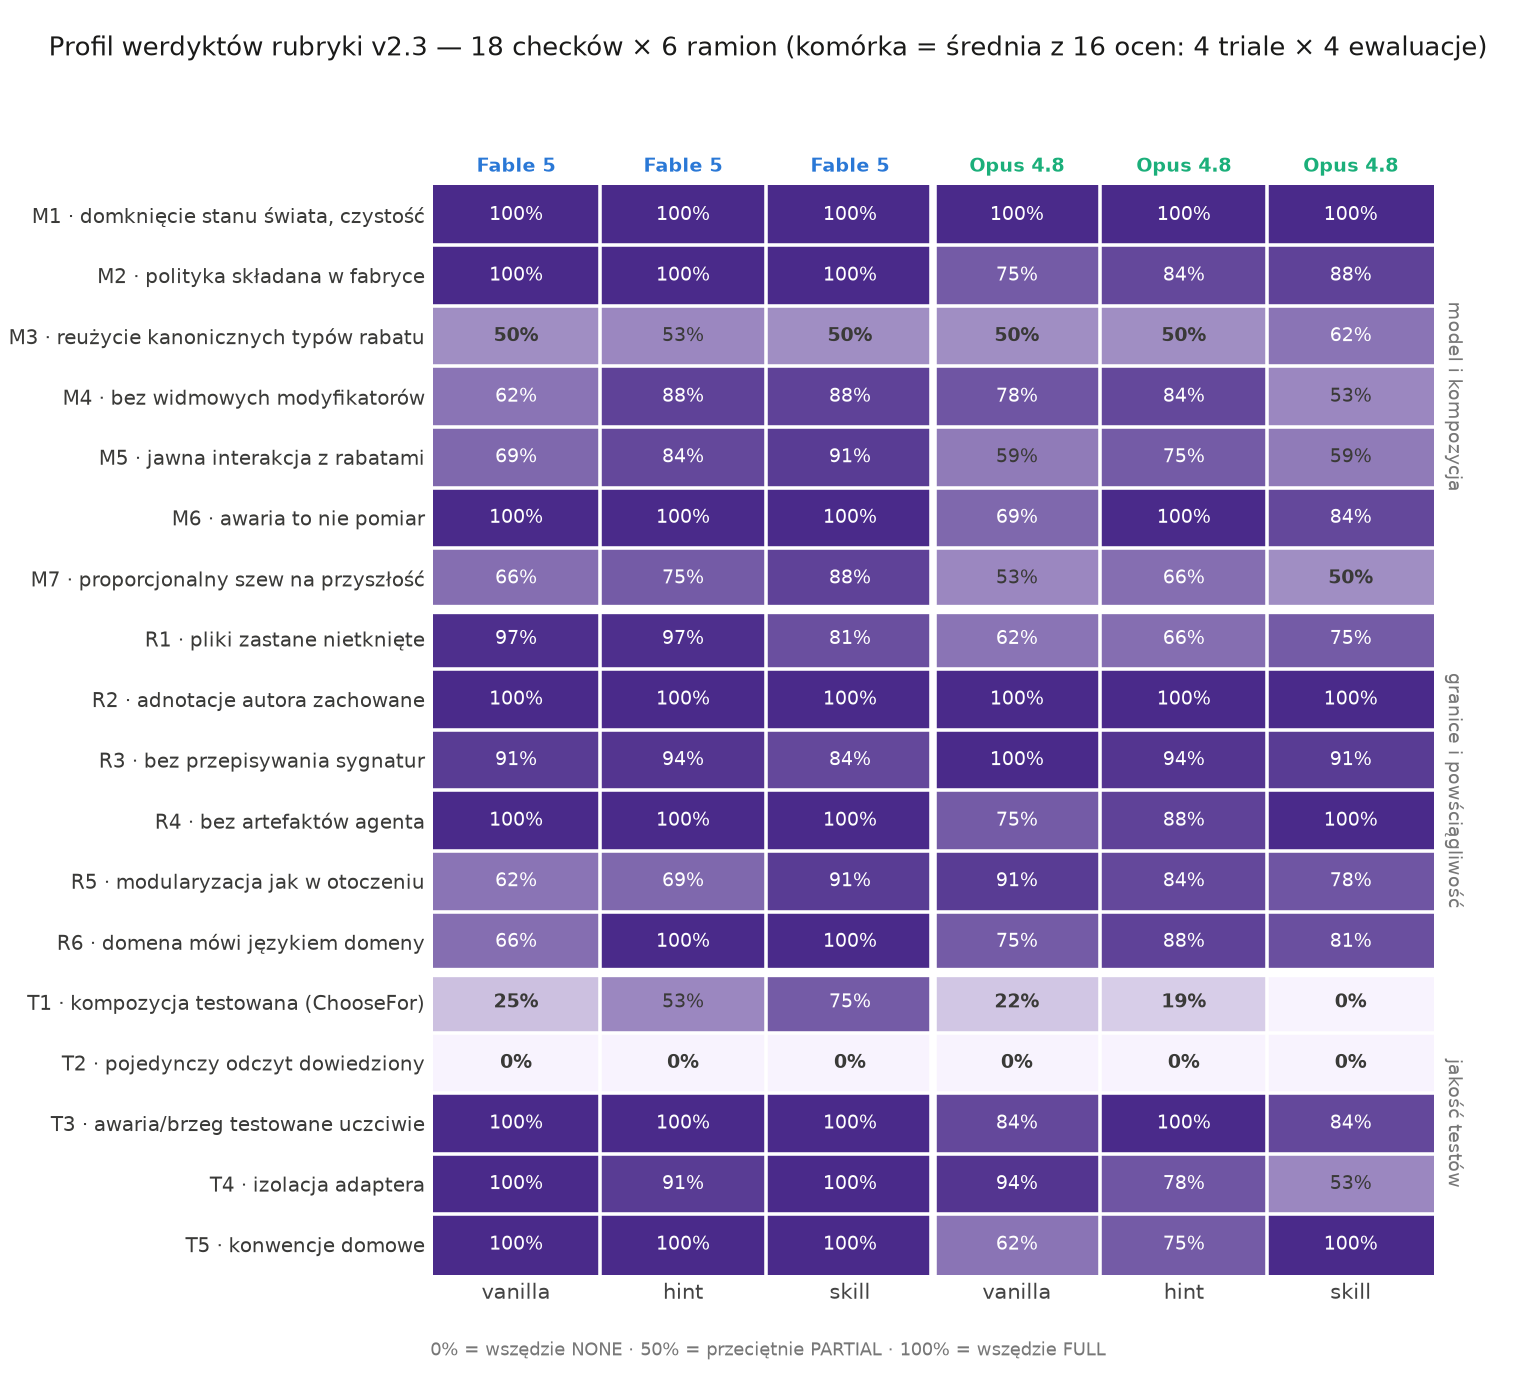
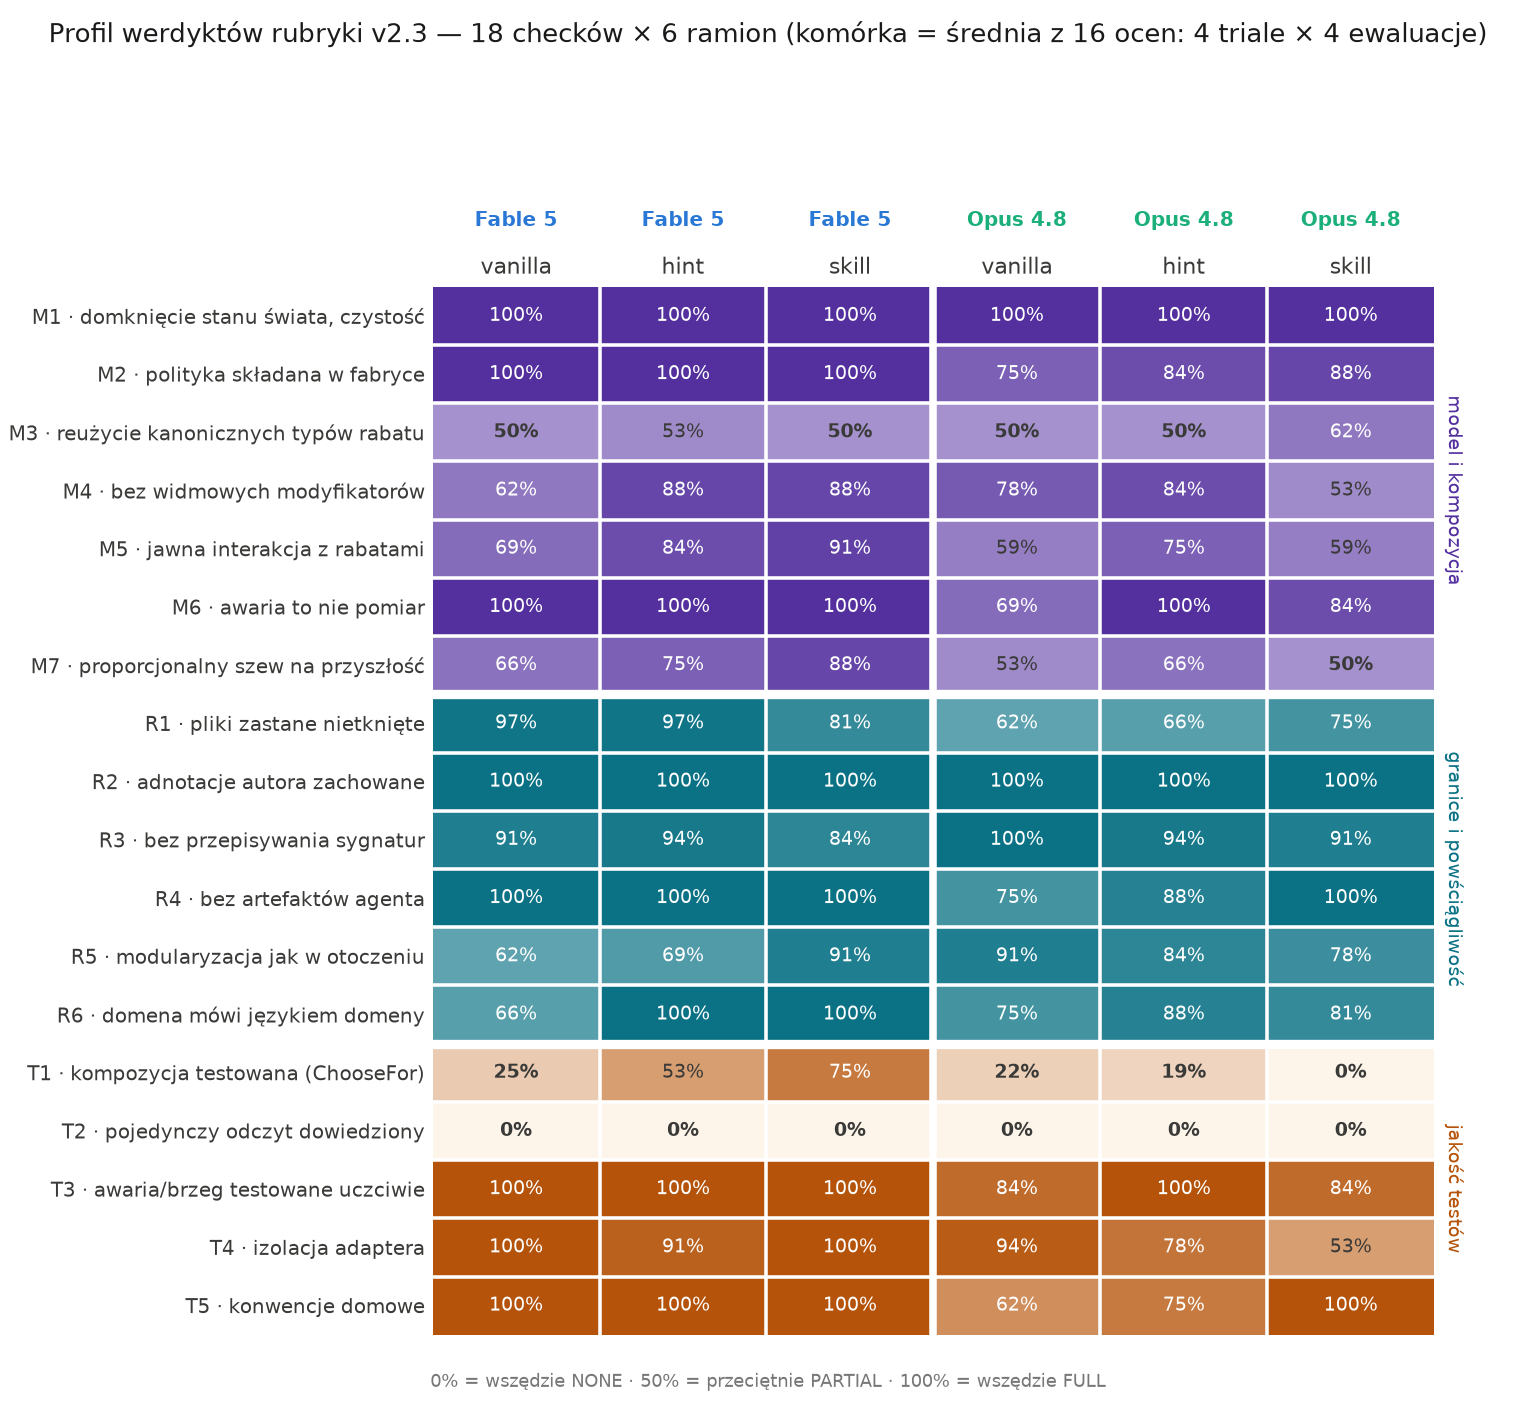
viz: heatmap polish — config labels on top, per-group hues (M violet / R teal / T amber)
Claude-Session: https://claude.ai/code/session_0112rjaT9dWVPXhqm2FCQQPh

diff --git a/examples/ddd-architectural-challenges/verdict_heatmap.py b/examples/ddd-architectural-challenges/verdict_heatmap.py
@@ -182,17 +182,25 @@ def collect() -> tuple[dict[tuple[str, str], list[dict]], list[str]]:
 
 
 VAL = {"FULL": 1.0, "PARTIAL": 0.5, "NONE": 0.0}
-CMAP = LinearSegmentedColormap.from_list("verdict", ["#f8f3fe", "#4a2a8a"])
+# one sequential ramp per check group; anchors CVD-checked as a set (worst dE 36)
+GROUP_RAMP = {
+    "M": ("#f7f3fd", "#53309e"),
+    "R": ("#eff8fa", "#0b7285"),
+    "T": ("#fdf4ea", "#b45309"),
+}
+CMAPS = {g: LinearSegmentedColormap.from_list(f"verdict_{g}", ramp)
+         for g, ramp in GROUP_RAMP.items()}
 
 
 def heatmap(per_arm: dict, lang: str) -> None:
     t = TEXT[lang]
     grid = [[sum(VAL[evals[c]] for evals in per_arm[arm]) / len(per_arm[arm])
              for arm in ARM_ORDER] for c in CHECKS]
+    rgba = [[CMAPS[c[0]](v) for v in row] for c, row in zip(CHECKS, grid)]
 
-    fig, ax = plt.subplots(figsize=(9.6, 8.6))
-    fig.suptitle(t["title"], fontsize=11.5, color=INK, y=0.975)
-    ax.imshow(grid, cmap=CMAP, vmin=0.0, vmax=1.0, aspect="auto")
+    fig, ax = plt.subplots(figsize=(9.6, 8.8))
+    fig.suptitle(t["title"], fontsize=11.5, color=INK, y=0.985)
+    ax.imshow(rgba, aspect="auto")
 
     for yi, row in enumerate(grid):
         for xi, v in enumerate(row):
@@ -201,10 +209,11 @@ def heatmap(per_arm: dict, lang: str) -> None:
                     fontweight="bold" if v <= 0.5 else "normal")
 
     ax.set_xticks(range(len(ARM_ORDER)))
-    ax.set_xticklabels([config for _c, config in ARM_ORDER], fontsize=9.5, color="#444")
+    ax.set_xticklabels([config for _c, config in ARM_ORDER], fontsize=10, color="#3a3a38")
+    ax.xaxis.set_ticks_position("top")
     for xi, (coder, _config) in enumerate(ARM_ORDER):
-        ax.annotate(coder, (xi, 1.012), xycoords=("data", "axes fraction"),
-                    ha="center", fontsize=8.6, color=CODER_COLOR[coder], fontweight="bold")
+        ax.annotate(coder, (xi, 1.058), xycoords=("data", "axes fraction"),
+                    ha="center", fontsize=9, color=CODER_COLOR[coder], fontweight="bold")
     ax.set_yticks(range(len(CHECKS)))
     ax.set_yticklabels([LABELS[lang][c] for c in CHECKS], fontsize=8.8, color="#3a3a38")
     ax.tick_params(length=0)
@@ -222,10 +231,10 @@ def heatmap(per_arm: dict, lang: str) -> None:
             ax.axhline(start - 0.5, color="white", linewidth=4.2)
         ax.annotate(t["groups"][group], (1.01, 1 - (start + size / 2) / len(CHECKS)),
                     xycoords="axes fraction", ha="left", va="center", fontsize=8.6,
-                    color="#777", rotation=270)
+                    color=GROUP_RAMP[group][1], rotation=270)
 
     fig.text(0.5, 0.015, t["scale"], ha="center", fontsize=8.2, color="#777")
-    fig.tight_layout(rect=(0, 0.035, 0.97, 0.94))
+    fig.tight_layout(rect=(0, 0.035, 0.97, 0.905))
     out = HERE / "assets" / t["out"]
     fig.savefig(out, dpi=160, facecolor="white")
     print("saved:", out)
